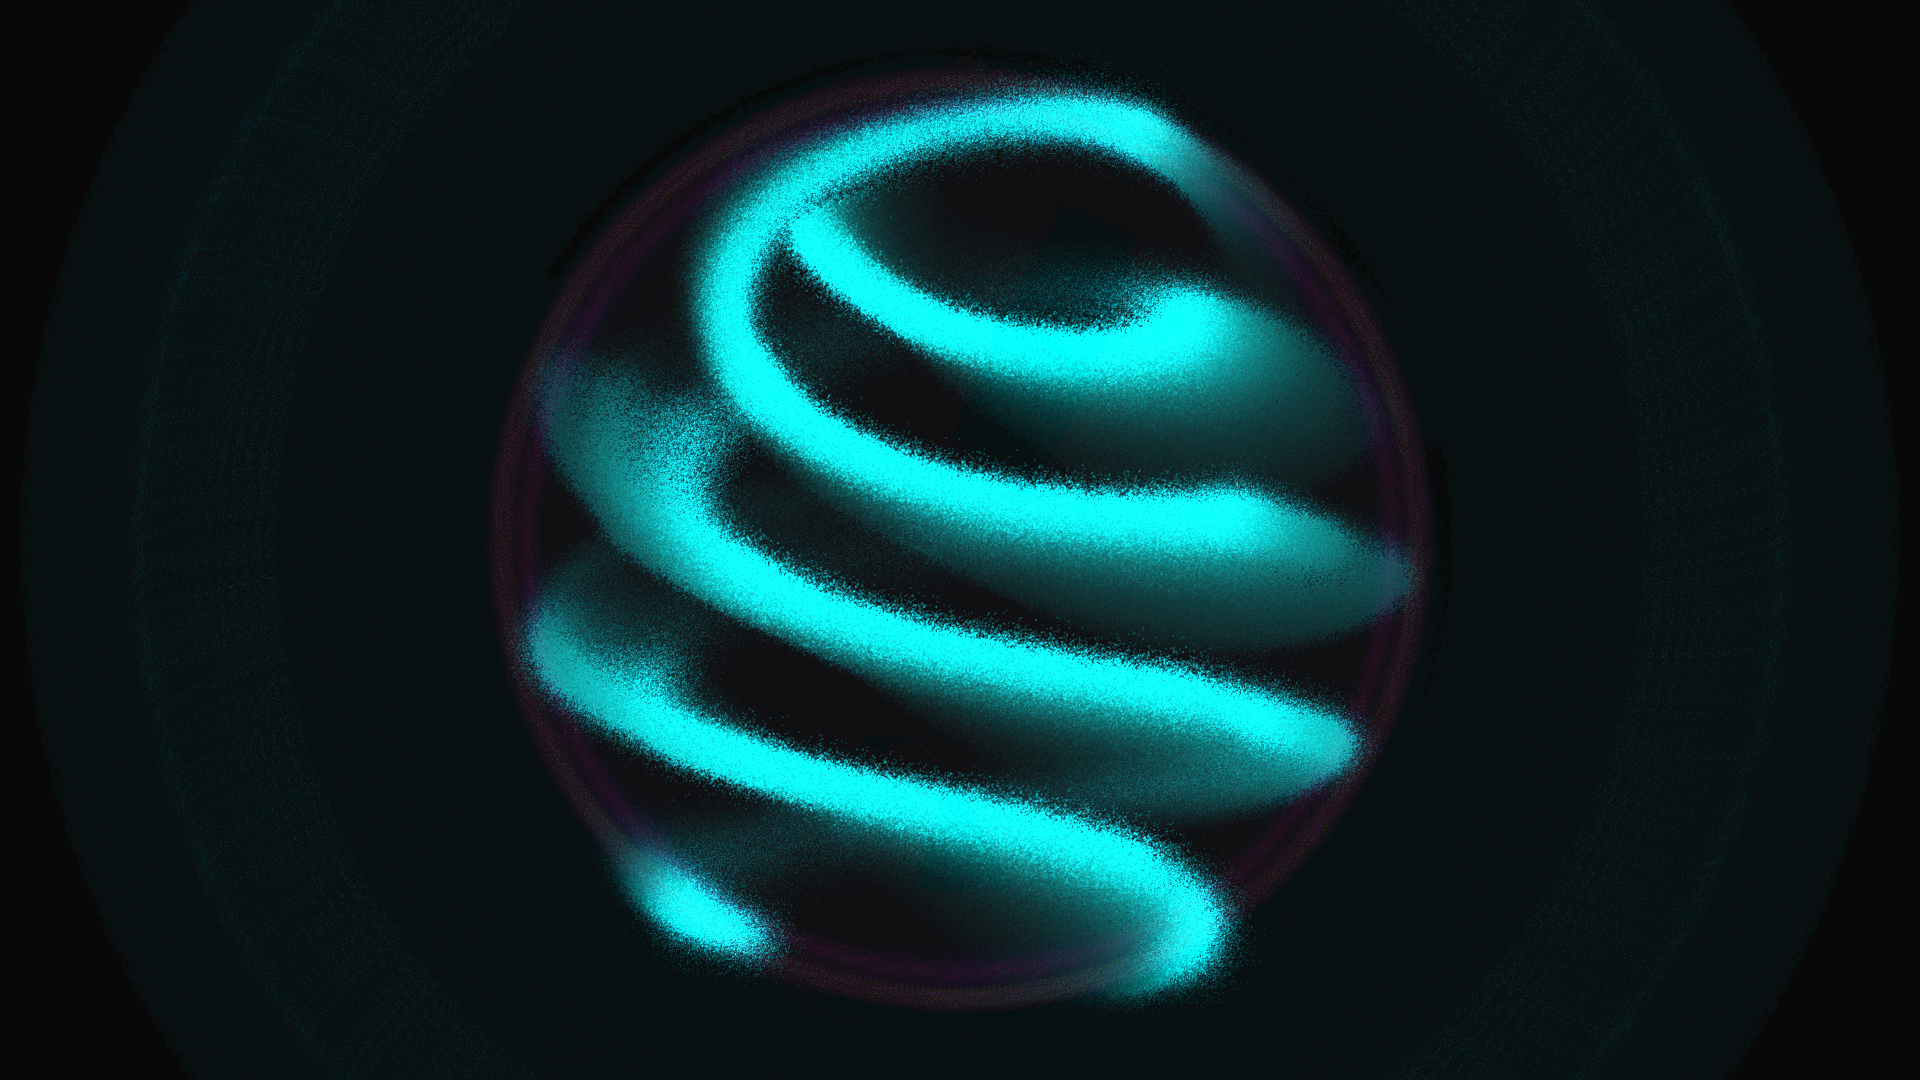
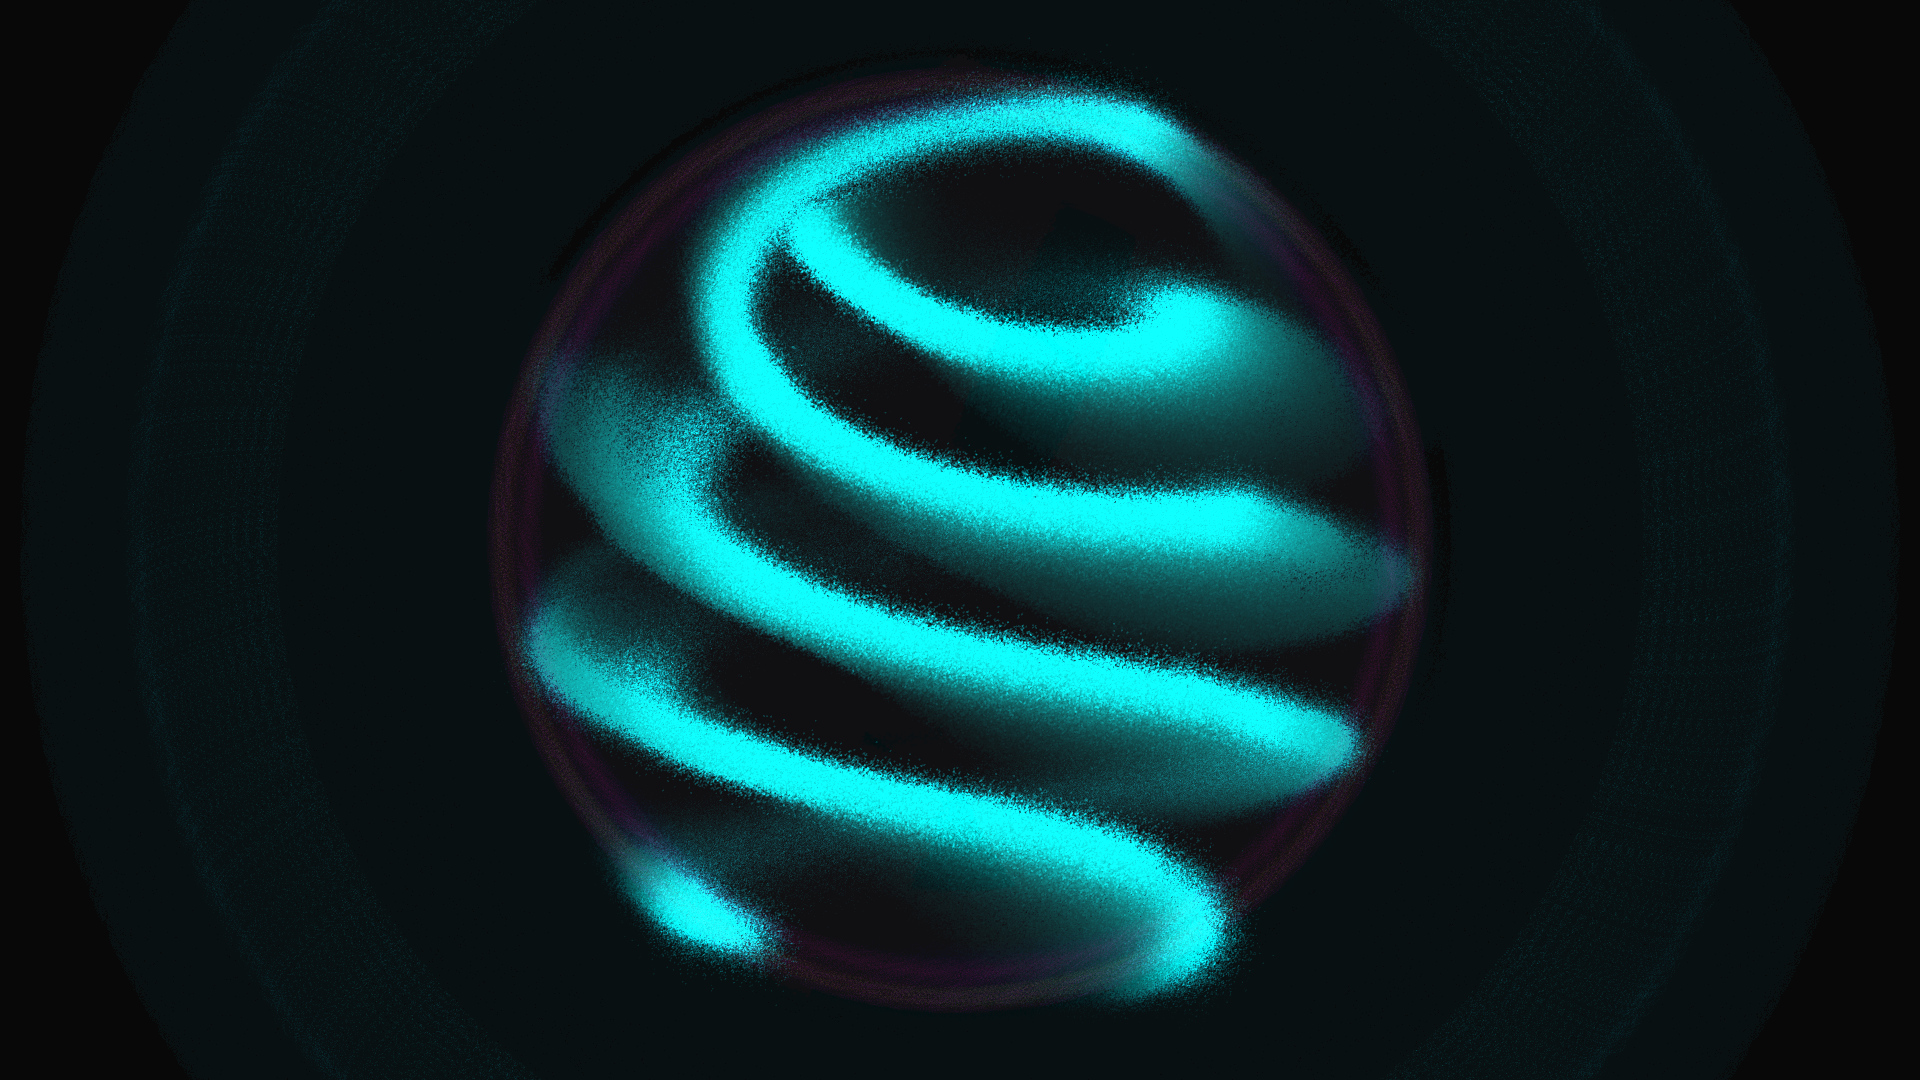
feat: regenerate fput_recurrence_lattice animation

Changed region(s): [[0.25, 0.0611, 0.7188, 0.9472]]

diff --git a/sketch/fput_recurrence_lattice/main.py b/sketch/fput_recurrence_lattice/main.py
@@ -269,7 +269,7 @@ def draw():
         py5.exit_sketch()
         print(f"[Render FFmpeg] Compiling {TOTAL_FRAMES} frames into video...")
         subprocess.run([
-            "ffmpeg", "-y", "-r", str(FPS),
+            "/opt/homebrew/bin/ffmpeg", "-y", "-r", str(FPS),
             "-i", str(FRAMES_DIR / "frame-%04d.png"),
             "-vcodec", "libx264", "-pix_fmt", "yuv420p",
             str(SKETCH_DIR / f"{WORK_NAME}.mp4"),

diff --git a/.agents/FEEDBACK.md b/.agents/FEEDBACK.md
@@ -61,7 +61,7 @@ The Artist reads this file before starting a new sketch to understand preference
 
 ## fput_recurrence_lattice
 
-- **Rating**: 
+- **Rating**: OK.
 - **Comment**: 
 
 ## schlieren_thermal_plumes
@@ -101,7 +101,7 @@ The Artist reads this file before starting a new sketch to understand preference
 
 ## polymer_chain_langevin_dynamics
 
-- **Rating**: 
+- **Rating**: OK.
 - **Comment**: 
 
 ## chladni_plate_resonance
@@ -1731,7 +1731,7 @@ Add any notes on color, density, theme, or mood in the Comment field.
 
 ## liquidity_tide
 
-- **Rating**: 
+- **Rating**: OK.
 - **Comment**: 
 
 ## wafer_stepper_drift
@@ -1756,5 +1756,5 @@ Add any notes on color, density, theme, or mood in the Comment field.
 
 ## nanopore_signal_loom
 
-- **Rating**: 
+- **Rating**: OK.
 - **Comment**: 
